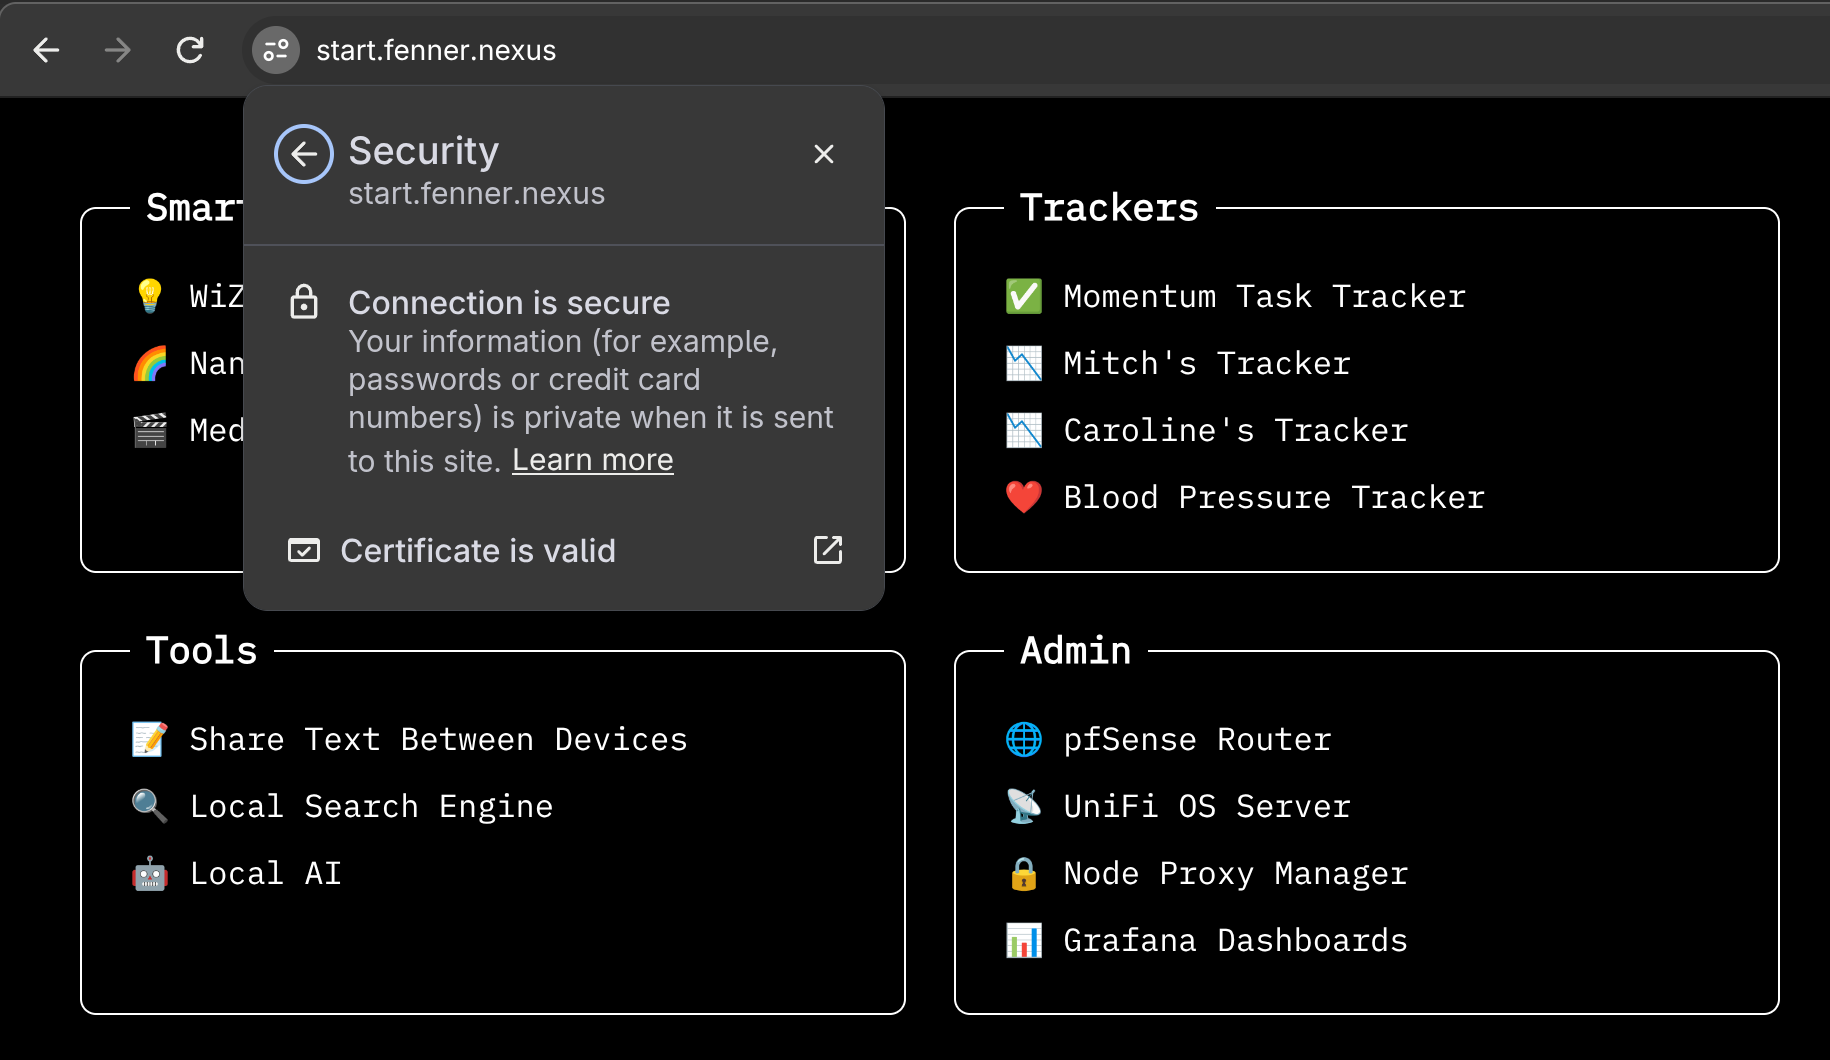
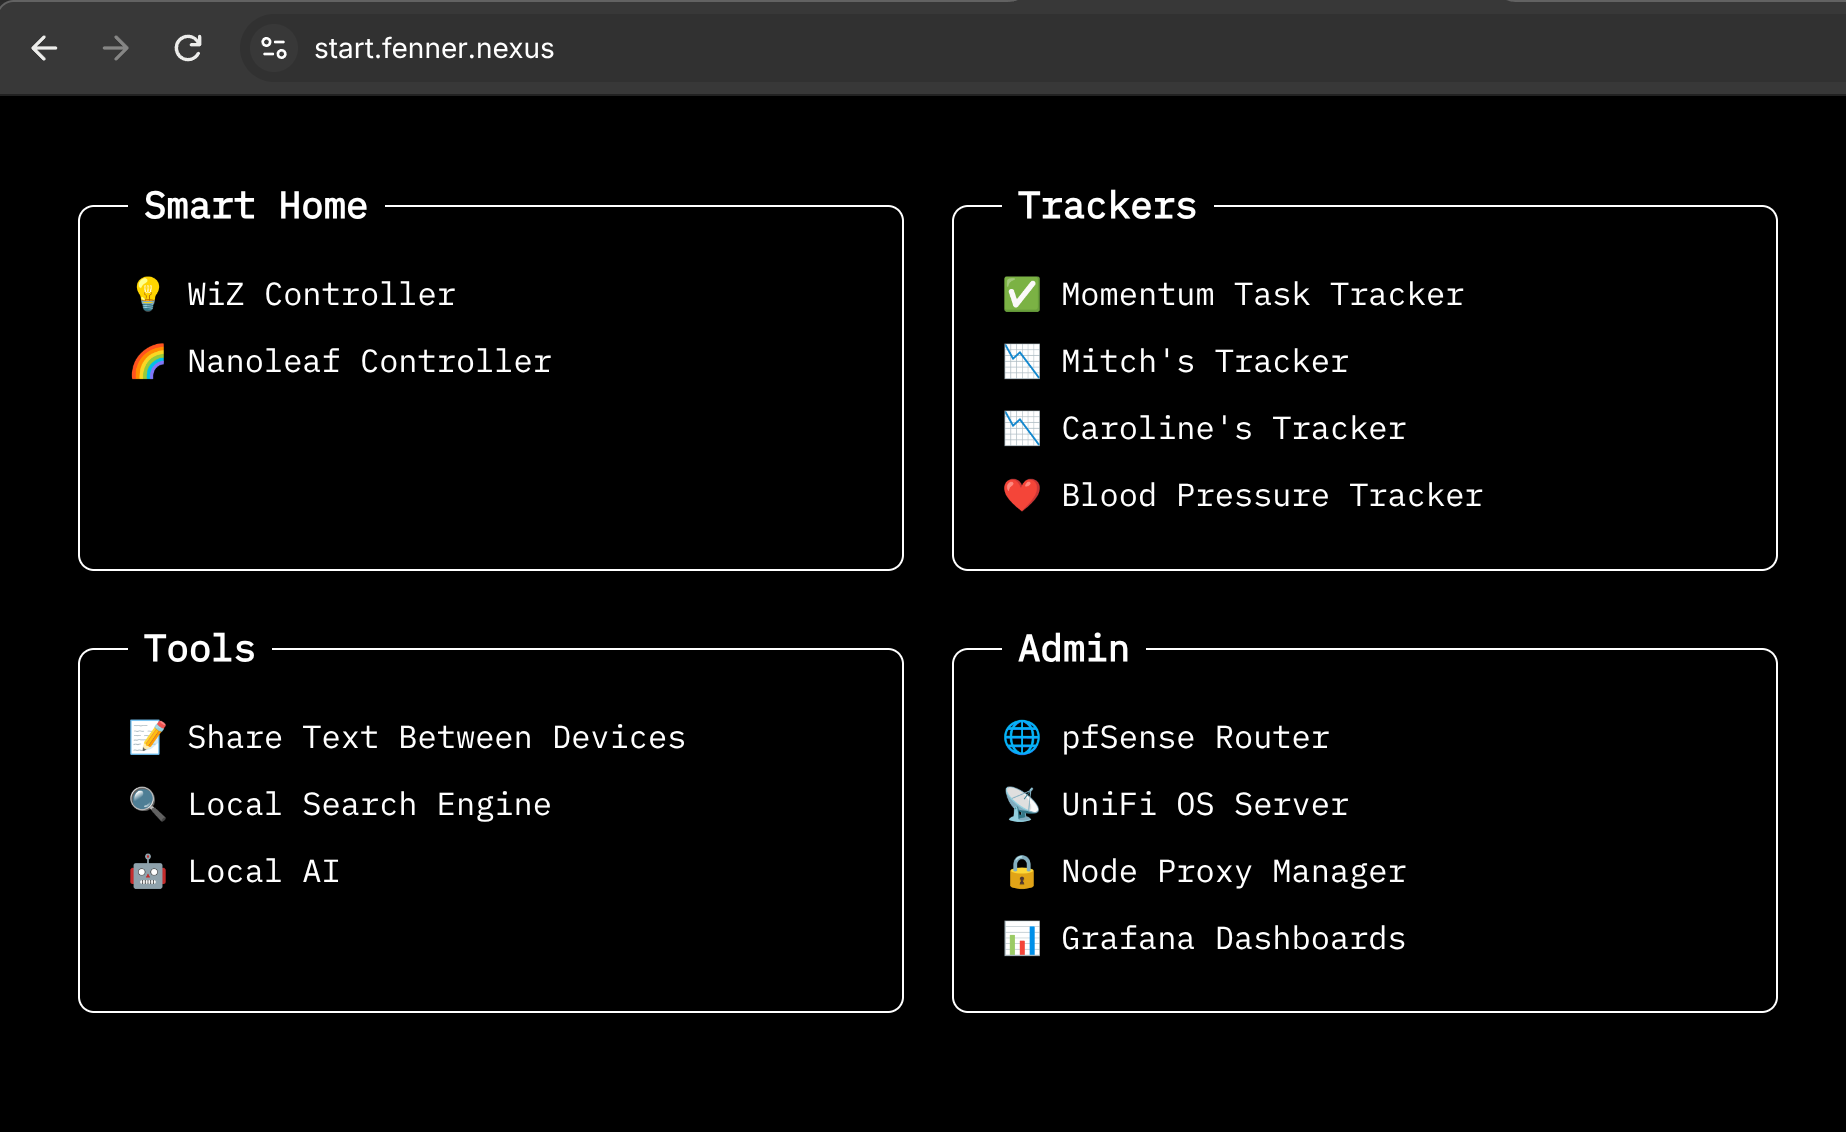
documentation update

diff --git a/landing-page/index.html b/landing-page/index.html
@@ -84,7 +84,6 @@
                 <ul>
                     <li><a href="https://wiz.fenner.nexus">💡 WiZ Controller</a></li>
                     <li><a href="https://nanoleaf.fenner.nexus">🌈 Nanoleaf Controller</a></li>
-                    <li><a href="https://jellyfin.fenner.nexus">🎬 Media Server</a></li>
                 </ul>
             </fieldset>
             <fieldset>

diff --git a/README.md b/README.md
@@ -40,7 +40,7 @@
 
 - All my apps are served on subdomains of `fenner.nexus`. That is a public domain, but one with **no public DNS records**. I use a [split horizon DNS](https://en.wikipedia.org/wiki/Split-horizon_DNS) strategy so my devices resolve those subdomains to the local IPs of my devices.
 - [Nginx Proxy Manager](https://github.com/NginxProxyManager/nginx-proxy-manager) acts as the reverse proxy, routing each request to the correct pod via the HTTP `Host` header. It uses the Cloudflare API and the [DNS-01 challenge](https://letsencrypt.org/docs/challenge-types/#dns-01-challenge) to obtain a wildcard `*.fenner.nexus` TLS certificate from [Let's Encrypt](https://letsencrypt.org/). So every app is served over HTTPS without browser certificate warnings!
-- See my [start page](./landing-page/index.html) which is stored in a Kubernetes ConfigMap and served by an nginx pod. Terraform manages the ConfigMap, deployment, and service. 
+- See my [start page](./landing-page/index.html) (and how it has no certificate warnings 😉). It's stored in a Kubernetes ConfigMap and served by an nginx pod. Terraform manages the ConfigMap, deployment, and service. 
 
 <img src="./images/landing-page.png" width=400px />
 
@@ -85,7 +85,6 @@ Draynor's stateful data is backed up off-site to Azure Blob Storage. See the [ba
 | Open WebUI | Frontend interface for my local LLMs running via LM Studio, allowing anyone on my home network to chat with local AI models. | Kubernetes| [Link](https://github.com/open-webui/open-webui) |
 | Nginx Proxy Manager | Reverse proxy and entrypoint for all my apps. | Kubernetes | [Link](https://github.com/NginxProxyManager/nginx-proxy-manager) |
 | UniFi OS | Manage and update my Ubiquiti access points. | Debian | [Link](https://help.ui.com/hc/en-us/articles/34210126298775-Self-Hosting-UniFi) |
-| Jellyfin | Media server. | Debian | [Link](https://jellyfin.org) |
 | pfBlocker-NG | IP filtering, DNS blocklisting, ad/tracker blocking, and TLD blocking. | pfSense Extension | [Link](https://docs.netgate.com/pfsense/en/latest/packages/pfblocker.html) |
 
 ## Local AI Models

diff --git a/terraform/README.md b/terraform/README.md
@@ -8,13 +8,7 @@
 
 3. Create `~/.kube/config`
 
-4. Initialize the Azure remote backend and providers:
-
-   ```bash
-   terraform -chdir=terraform/environments/homelab init
-   ```
-
-5. `./makeItSo.sh`
+4. `./makeItSo.sh`
 
 ## Grafana Password
 
@@ -23,6 +17,9 @@ After applying the monitoring stack, retrieve the generated Grafana administrato
 ```bash
 kubectl get secret -n monitoring grafana-admin -o jsonpath="{.data.admin-password}" | base64 --decode; echo
 ```
+
+> **Note:** The password is generated by Terraform's random_password
+> resource and persisted in state. The state is protected by Azure RBAC and IP whitelisting which disallows any traffic to the storage account not from my IP. **In a real production environment, I would use an Azure Key Vault.**
 
 ## How to Update The Monitoring Chart
 
